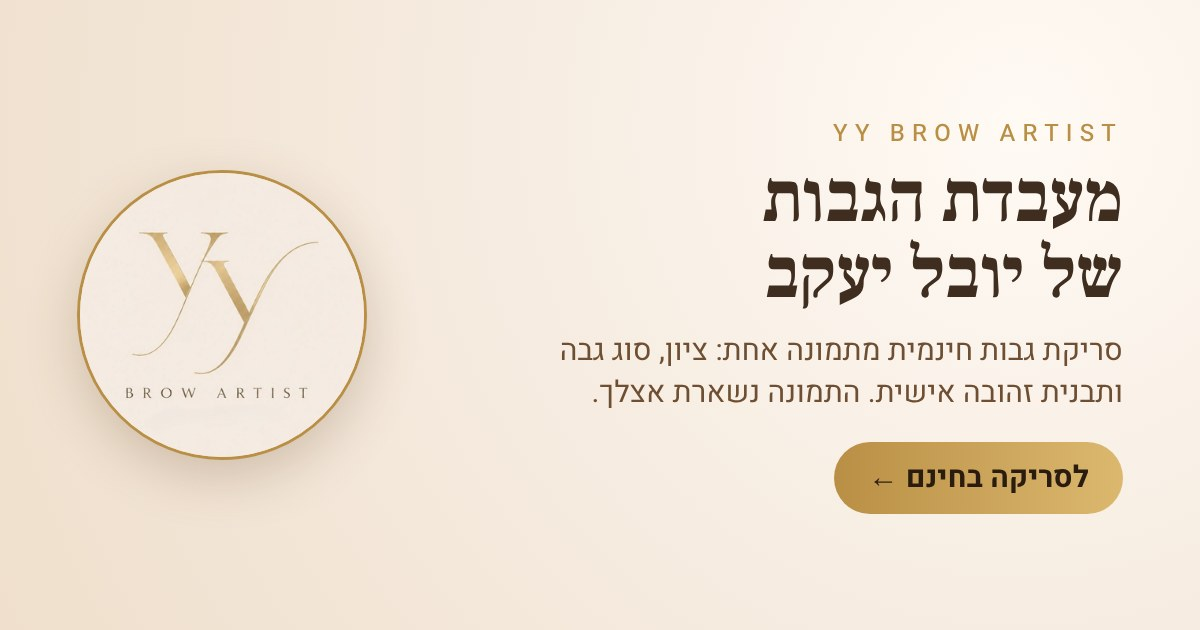
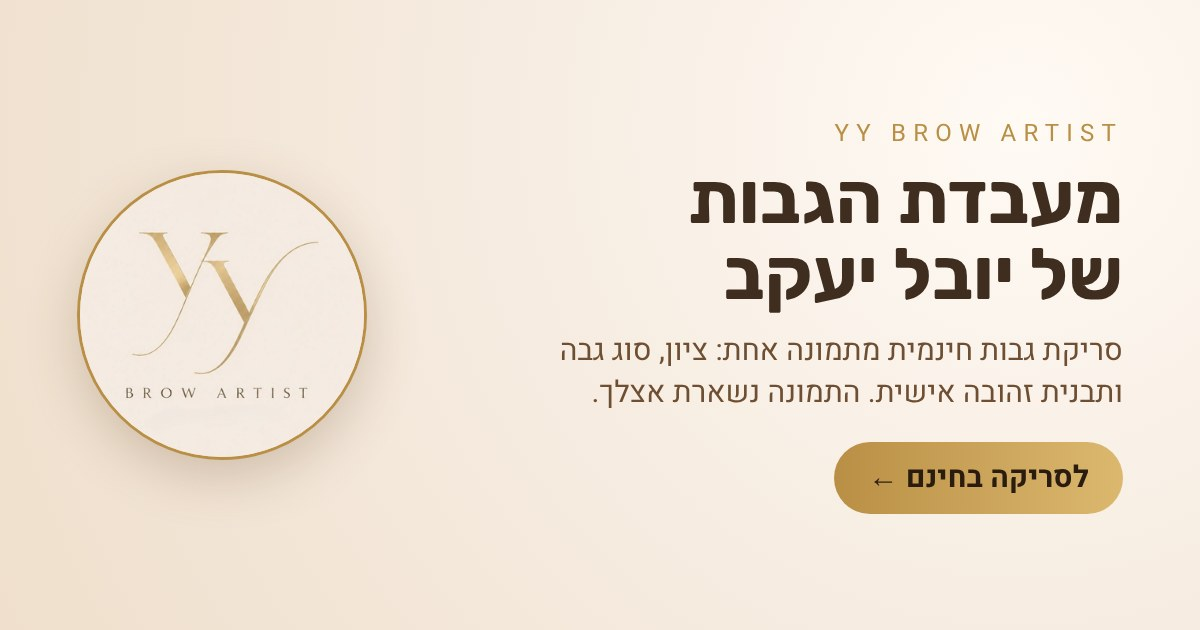
Typography: Rubik 700 for headings, Heebo 400/700 for text and UI
- Google Fonts: Rubik (700) and Heebo (400, 700), replacing Frank Ruhl
  Libre. The css2 API serves each family split by unicode-range with a
  Hebrew subset, so only the needed glyph files are downloaded.
- h1/h2/h3 and card titles (and the score numbers) use Rubik 700; body
  text, labels, chips and inputs use Heebo 400; call-to-action buttons
  stay Heebo 700
- Former 500/800 weights mapped to the loaded 400/700, so the browser
  never synthesizes a weight
- Story share card and the link-preview image (og.jpg) use the same fonts

Claude-Session: https://claude.ai/code/session_01WCoiAkzugh15QJfaNZXuM2

diff --git a/public/index.html b/public/index.html
@@ -24,14 +24,14 @@
 <link rel="apple-touch-icon" href="apple-touch-icon.png">
 <title>מעבדת הגבות של יובל יעקב</title>
 <link rel="preconnect" href="https://fonts.googleapis.com"><link rel="preconnect" href="https://fonts.gstatic.com" crossorigin>
-<link href="https://fonts.googleapis.com/css2?family=Frank+Ruhl+Libre:wght@500;700&family=Heebo:wght@400;500;700&display=swap" rel="stylesheet">
+<link href="https://fonts.googleapis.com/css2?family=Rubik:wght@700&family=Heebo:wght@400;700&display=swap" rel="stylesheet">
 <style>
 /* Concept: a brow-mapping lab. The photo becomes a scan plate; measuring lines and a gold stencil are drawn on top of it. */
 :root{
   --bg:#f6ece1; --surface:#fffaf4; --surface2:#f1e3d2; --ink:#3f2e20; --muted:#7f6a56;
   --gold:#b98f45; --gold2:#dcb86f; --brown:#6e4f33; --line:#e6d4bf;
   --good:#58824d; --mid:#b88a2c; --low:#b4553f; --on-gold:#2a1d10; --bar:rgba(246,236,225,.92);
-  --f-display:"Frank Ruhl Libre",Georgia,serif; --f-body:"Heebo",system-ui,sans-serif;
+  --f-display:"Rubik","Heebo",system-ui,sans-serif; --f-body:"Heebo",system-ui,sans-serif;
 }
 @media (prefers-color-scheme: dark){:root:not([data-theme="light"]){
   --bg:#1b1511; --surface:#261d17; --surface2:#32261d; --ink:#f4e8d8; --muted:#bba68e;
@@ -48,6 +48,8 @@ body{text-align:start;margin:0;background:var(--bg);color:var(--ink);font:400 16
 body.has-bar{padding-bottom:110px}
 .wrap{max-width:640px;margin:0 auto;display:flex;flex-direction:column;gap:16px}
 h1,h2,h3,p{margin:0}
+h1,h2,h3{font-family:var(--f-display);font-weight:700}
+button,input,select,textarea,label,.chip{font-family:var(--f-body)}
 h1,h2{text-wrap:balance}
 a{color:inherit}
 :focus-visible{outline:3px solid var(--gold);outline-offset:3px}
@@ -78,7 +80,7 @@ h1{font-family:var(--f-display);font-weight:700;font-size:clamp(1.9rem,8vw,2.6re
 .checks li i{flex:none;width:22px;height:22px;border-radius:50%;border:2px solid var(--line);display:grid;place-items:center;font-style:normal;font-size:.75rem;font-weight:700}
 .checks li.done{color:var(--ink)}
 .checks li.done i{background:var(--gold);border-color:var(--gold);color:var(--on-gold)}
-.checks li.now{color:var(--ink);font-weight:500}
+.checks li.now{color:var(--ink);font-weight:400}
 .checks li.now i{border-color:var(--gold);border-top-color:transparent;animation:spin .9s linear infinite}
 @keyframes spin{to{transform:rotate(360deg)}}
 #scan h2{text-align:center;margin:0}
@@ -99,16 +101,16 @@ h1{font-family:var(--f-display);font-weight:700;font-size:clamp(1.9rem,8vw,2.6re
 .drop svg{width:34px;height:34px}
 .thumb{width:100%;max-height:300px;object-fit:cover;border-radius:16px}
 .tips{margin:0;padding-right:18px;color:var(--muted);font-size:.9rem}
-.err{color:var(--low);text-align:center;font-weight:500}
+.err{color:var(--low);text-align:center;font-weight:400}
 .err.pose{text-align:start;background:var(--surface2);border:2px solid var(--low);border-radius:16px;padding:14px;line-height:1.6}
 .err.pose b{display:block;font-size:1.05rem;margin-bottom:4px}
 .err.pose button{margin-top:10px}
-.angle-warn{color:var(--low);font-weight:500;background:var(--surface2);border-inline-start:4px solid var(--low);border-radius:12px;padding:10px 12px;font-size:.92rem}
+.angle-warn{color:var(--low);font-weight:400;background:var(--surface2);border-inline-start:4px solid var(--low);border-radius:12px;padding:10px 12px;font-size:.92rem}
 .lead .ln,.ainote .ln{display:block;text-wrap:balance}
 .ainote{font-size:.85rem;color:var(--muted);text-align:center;margin:6px 0 0}
 .book-mid{text-align:center}
 .brow-emoji{font-size:1.4rem}
-.vibe{margin:0;background:var(--surface2);border-radius:14px;padding:10px 14px;font-weight:500;color:var(--brown)}
+.vibe{margin:0;background:var(--surface2);border-radius:14px;padding:10px 14px;font-weight:400;color:var(--brown)}
 .tags .tag{animation:pop .4s cubic-bezier(.2,1.4,.4,1) both}
 .tags .tag:nth-child(2){animation-delay:.08s}.tags .tag:nth-child(3){animation-delay:.16s}.tags .tag:nth-child(4){animation-delay:.24s}.tags .tag:nth-child(5){animation-delay:.32s}
 .tags .tag::before{content:"✨ "}
@@ -118,10 +120,10 @@ h1{font-family:var(--f-display);font-weight:700;font-size:clamp(1.9rem,8vw,2.6re
 #ov.magic #gIdeal polygon{fill:rgba(236,208,142,.55);stroke:#fff3cf;stroke-dasharray:none;filter:drop-shadow(0 0 6px rgba(246,220,160,.9));animation:glow 1.6s ease-in-out infinite}
 @keyframes glow{50%{fill:rgba(236,208,142,.3)}}
 canvas.burst{position:fixed;inset:0;width:100vw;height:100vh;pointer-events:none;z-index:80}
-.mkey{list-style:none;margin:0;padding:12px 14px;display:grid;grid-template-columns:1fr 1fr;gap:10px 12px;background:var(--surface2);border-radius:16px;font-size:.95rem;font-weight:500}
+.mkey{list-style:none;margin:0;padding:12px 14px;display:grid;grid-template-columns:1fr 1fr;gap:10px 12px;background:var(--surface2);border-radius:16px;font-size:.95rem;font-weight:400}
 .mkey li{display:flex;align-items:center;gap:8px;line-height:1.3}
 .mkey li:nth-child(n+4){grid-column:1/-1}
-.mk-num{flex:none;display:grid;place-items:center;width:26px;height:26px;border-radius:50%;background:#ecd08e;border:2px solid #fff;color:#3b2a1e;font-weight:800;font-size:.9rem;box-shadow:0 0 0 1px rgba(0,0,0,.15)}
+.mk-num{flex:none;display:grid;place-items:center;width:26px;height:26px;border-radius:50%;background:#ecd08e;border:2px solid #fff;color:#3b2a1e;font-weight:700;font-size:.9rem;box-shadow:0 0 0 1px rgba(0,0,0,.15)}
 .mk-sw{flex:none;width:34px;height:14px;border-radius:7px}
 .mk-gold{background:rgba(236,208,142,.35);border:2px dashed #c9a75c}
 .mk-white{background:repeating-linear-gradient(90deg,#8a7663 0 3px,transparent 3px 9px);height:4px;border-radius:2px}
@@ -131,7 +133,7 @@ canvas.burst{position:fixed;inset:0;width:100vw;height:100vh;pointer-events:none
 .more-head h2{margin:0}
 .more-head p{margin:2px 0 0;color:var(--muted);font-size:.92rem}
 .more-ic{flex:none;display:grid;place-items:center;width:52px;height:52px;border-radius:50%;background:var(--gold);font-size:1.5rem}
-.more-list{list-style:none;margin:0;padding:0;display:flex;flex-direction:column;gap:8px;font-weight:500}
+.more-list{list-style:none;margin:0;padding:0;display:flex;flex-direction:column;gap:8px;font-weight:400}
 .more-list li{display:flex;gap:10px;align-items:center;background:var(--surface);border-radius:12px;padding:8px 12px}
 .more-btn{background:linear-gradient(90deg,var(--gold),var(--gold2));color:var(--on-gold)}
 .more-btn .chev{display:inline-block;font-size:1.2rem;animation:nudge 1.4s ease-in-out infinite}
@@ -147,7 +149,7 @@ canvas.burst{position:fixed;inset:0;width:100vw;height:100vh;pointer-events:none
 .inapp ol{margin:6px 0;padding-inline-start:20px}
 .share-dlg img{display:block;width:min(260px,70vw);margin:8px auto;border-radius:14px;box-shadow:0 8px 24px rgba(0,0,0,.2)}
 .share-dlg .btn{margin:10px 0 0}
-.book-mid p{margin:0 0 10px;font-weight:500}
+.book-mid p{margin:0 0 10px;font-weight:400}
 
 /* scan stage */
 .stage{position:relative;border-radius:22px;overflow:hidden;background:#17110c;line-height:0}
@@ -158,7 +160,7 @@ canvas.burst{position:fixed;inset:0;width:100vw;height:100vh;pointer-events:none
 @keyframes sweep{0%{top:-22%}100%{top:100%}}
 @keyframes fade{from{opacity:0}to{opacity:1}}
 .l1{animation:fade .6s .2s both}.l2{animation:fade .6s .8s both}.l3{animation:fade .6s 1.4s both}
-.status{text-align:center;font-weight:500;min-height:1.6em}
+.status{text-align:center;font-weight:400;min-height:1.6em}
 .prog{height:6px;border-radius:6px;background:var(--surface2);overflow:hidden}
 .prog i{display:block;height:100%;width:6%;background:linear-gradient(90deg,var(--gold),var(--gold2));border-radius:6px;transition:width .5s ease-out}
 .layers{display:flex;flex-wrap:wrap;gap:8px;justify-content:center}
@@ -177,7 +179,7 @@ html,body,button,a,label,.chip,.zoombar,.layers{touch-action:manipulation}
 .zregions .chip{white-space:nowrap}
 .zsteps{display:flex;gap:8px;justify-content:center;width:100%}
 .redo{padding-top:14px;padding-bottom:14px}
-.redo-t{margin:0 0 10px;text-align:center;font-weight:500}
+.redo-t{margin:0 0 10px;text-align:center;font-weight:400}
 .redo-b{display:grid;grid-template-columns:1fr 1fr;gap:10px}
 .redo-b .btn{margin:0;text-align:center;cursor:pointer}
 
@@ -185,12 +187,12 @@ html,body,button,a,label,.chip,.zoombar,.layers{touch-action:manipulation}
 .how li{display:flex;gap:12px;align-items:flex-start}
 .how p{margin:2px 0 0;font-size:.92rem;color:var(--muted)}
 .how b{font-weight:700}
-.hnum{flex:none;width:30px;height:30px;border-radius:50%;background:var(--gold);color:var(--on-gold);font-weight:800;display:grid;place-items:center}
+.hnum{flex:none;width:30px;height:30px;border-radius:50%;background:var(--gold);color:var(--on-gold);font-weight:700;display:grid;place-items:center}
 
 
 .mlist{display:flex;flex-direction:column;gap:10px}
 .mrow{display:grid;grid-template-columns:1fr auto;gap:3px 10px;padding:12px 14px;border-radius:16px;background:var(--surface2);align-items:center}
-.mrow b{font-weight:500}
+.mrow b{font-weight:400}
 .mrow .st{font-size:.78rem;font-weight:700;border-radius:999px;padding:2px 10px;border:1px solid currentColor}
 .mrow .st.ok{color:var(--good)}
 .mrow .st.warn{color:var(--low)}
@@ -212,7 +214,7 @@ html,body,button,a,label,.chip,.zoombar,.layers{touch-action:manipulation}
 .keylines span{display:block}
 .keylines span+span{margin-top:4px}
 .tag{display:inline-block;font-size:.82rem;color:var(--brown);background:var(--surface2);border-radius:999px;padding:3px 12px;margin-top:6px}
-.verdict{font-weight:500}
+.verdict{font-weight:400}
 .tags{display:flex;flex-wrap:wrap;gap:8px}
 .tags .tag{margin:0;font-size:.9rem;padding:6px 14px}
 ol.prio{margin:0;padding:0;list-style:none;display:flex;flex-direction:column;gap:10px;counter-reset:p}
@@ -224,7 +226,7 @@ ol.prio span{color:var(--muted);font-size:.92rem}
 /* metrics */
 .metrics{display:flex;flex-direction:column;gap:8px}
 details.m{background:var(--surface2);border-radius:16px;padding:0 14px}
-details.m summary{list-style:none;cursor:pointer;padding:12px 0;display:grid;grid-template-columns:1fr auto;gap:4px 10px;align-items:center;font-weight:500}
+details.m summary{list-style:none;cursor:pointer;padding:12px 0;display:grid;grid-template-columns:1fr auto;gap:4px 10px;align-items:center;font-weight:400}
 details.m summary::-webkit-details-marker{display:none}
 details.m .sc{font-family:var(--f-display);font-weight:700;font-size:1.2rem}
 details.m .bar{grid-column:1/-1;height:6px;border-radius:6px;background:var(--line);overflow:hidden}
@@ -1554,7 +1556,7 @@ function buildOverlay(r) {
       const out = Math.sign(o.tail[0] - o.start[0]) || 1;   // marker 3 steps outward so it does not cover marker 2
       const bp = n === "3" ? P([q[0] + out * fs * 1.7, q[1] - fs * 0.6]) : P([q[0], q[1] - fs * 1.9]);
       g1 += dot(bp, fs * 0.82, "#ecd08e", "#fff") +
-        `<text x="${f1(bp[0])}" y="${f1(bp[1] + fs * 0.36)}" text-anchor="middle" font-size="${f1(fs * 1.05)}" font-weight="800" fill="#3b2a1e" font-family="Heebo,sans-serif">${n}</text>`;
+        `<text x="${f1(bp[0])}" y="${f1(bp[1] + fs * 0.36)}" text-anchor="middle" font-size="${f1(fs * 1.05)}" font-weight="700" fill="#3b2a1e" font-family="Heebo,sans-serif">${n}</text>`;
     });
     g1 += dot(Np, 6.5, "#ecd08e", "rgba(0,0,0,.55)");
     const N3p = P(o.N3); g1 += dot(N3p, 6.5, "#ecd08e", "rgba(0,0,0,.55)");
@@ -1845,8 +1847,8 @@ function wrapLines(ctx, text, maxW) {
 async function makeShareCard(r) {
   const W = 1080, H = 1920, c = document.createElement("canvas"); c.width = W; c.height = H;
   const x = c.getContext("2d");
-  try { await Promise.all(['700 80px "Frank Ruhl Libre"', '500 40px "Frank Ruhl Libre"', '400 40px Heebo', '700 40px Heebo'].map(f => document.fonts.load(f))); } catch (e) {}
-  const SERIF = '"Frank Ruhl Libre", Georgia, serif', SANS = 'Heebo, system-ui, sans-serif';
+  try { await Promise.all(['700 80px Rubik', '400 40px Heebo', '700 40px Heebo'].map(f => document.fonts.load(f, "אבג"))); } catch (e) {}
+  const SERIF = 'Rubik, Heebo, system-ui, sans-serif', SANS = 'Heebo, system-ui, sans-serif';   // SERIF: the heading font
   const g = x.createLinearGradient(0, 0, 0, H); g.addColorStop(0, "#fffaf4"); g.addColorStop(.55, "#f6ece1"); g.addColorStop(1, "#ecd9c3");
   x.fillStyle = g; x.fillRect(0, 0, W, H);
   x.direction = "rtl"; x.textAlign = "center"; x.textBaseline = "alphabetic";
@@ -1867,12 +1869,12 @@ async function makeShareCard(r) {
   x.beginPath(); x.arc(cx, cy, RR, -Math.PI / 2, -Math.PI / 2 + Math.PI * 2 * sc / 100);
   x.strokeStyle = sc >= 80 ? "#58824d" : sc >= 60 ? "#b88a2c" : "#b4553f"; x.stroke();
   x.fillStyle = "#3f2e20"; x.font = "700 190px " + SERIF; x.fillText(String(sc), cx, cy + 60);
-  x.fillStyle = "#7f6a56"; x.font = "500 44px " + SANS; x.fillText("מתוך 100", cx, cy + 125);
+  x.fillStyle = "#7f6a56"; x.font = "400 44px " + SANS; x.fillText("מתוך 100", cx, cy + 125);
   // brow type
-  x.fillStyle = "#b98f45"; x.font = "500 44px " + SANS; x.fillText("סוג הגבה שלי", W / 2, 1260);
+  x.fillStyle = "#b98f45"; x.font = "400 44px " + SANS; x.fillText("סוג הגבה שלי", W / 2, 1260);
   x.fillStyle = "#3f2e20"; x.font = "700 96px " + SERIF; x.fillText((r.browType || "") + " " + ((BROW_VIBES[r.browType] || {}).e || ""), W / 2, 1365);
   if (r.faceShape) {
-    const t = "מבנה פנים: נוטה ל" + r.faceShape; x.font = "500 42px " + SANS; const tw = x.measureText(t).width + 70;
+    const t = "מבנה פנים: נוטה ל" + r.faceShape; x.font = "400 42px " + SANS; const tw = x.measureText(t).width + 70;
     x.fillStyle = "#efdfcc"; x.beginPath(); x.roundRect(W / 2 - tw / 2, 1415, tw, 80, 40); x.fill();
     x.fillStyle = "#6e4f33"; x.fillText(t, W / 2, 1470);
   }
@@ -1881,7 +1883,7 @@ async function makeShareCard(r) {
   const bw = 760, bx = W / 2 - bw / 2, by = 1660, bg = x.createLinearGradient(bx, 0, bx + bw, 0);
   bg.addColorStop(0, "#b98f45"); bg.addColorStop(1, "#dcb86f"); x.fillStyle = bg; x.beginPath(); x.roundRect(bx, by, bw, 110, 55); x.fill();
   x.fillStyle = "#2a1d10"; x.font = "700 50px " + SANS; x.fillText("סריקת גבות בחינם בקישור", W / 2, by + 72);
-  x.fillStyle = "#7f6a56"; x.font = "500 38px " + SANS;
+  x.fillStyle = "#7f6a56"; x.font = "400 38px " + SANS;
   x.direction = "ltr"; x.fillText("@_yuvalyaacov_", W / 2, 1830); x.direction = "rtl";
   x.font = "400 30px " + SANS; x.fillText("הערכה של בינה מלאכותית, לא מדויקת במאה אחוזים", W / 2, 1885);
   return new Promise(res => c.toBlob(res, "image/png"));
